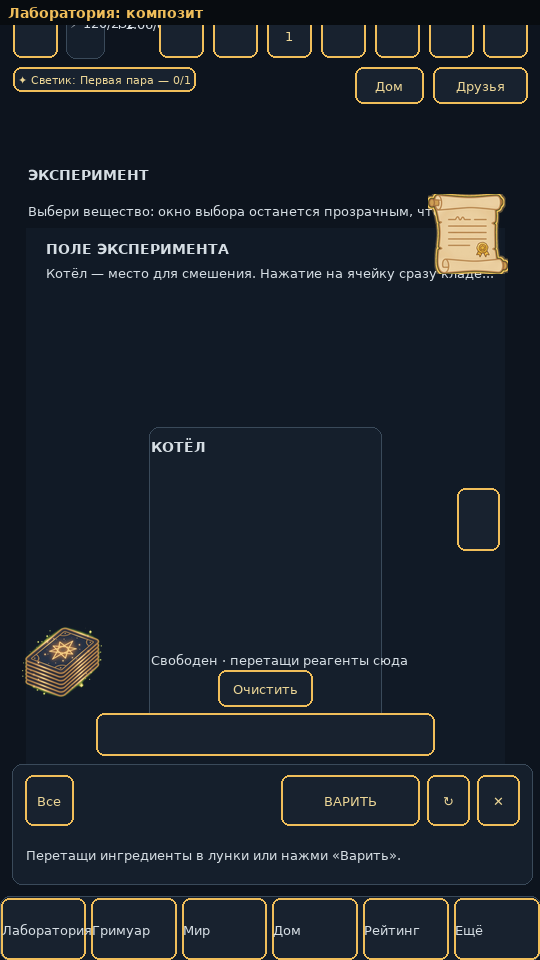
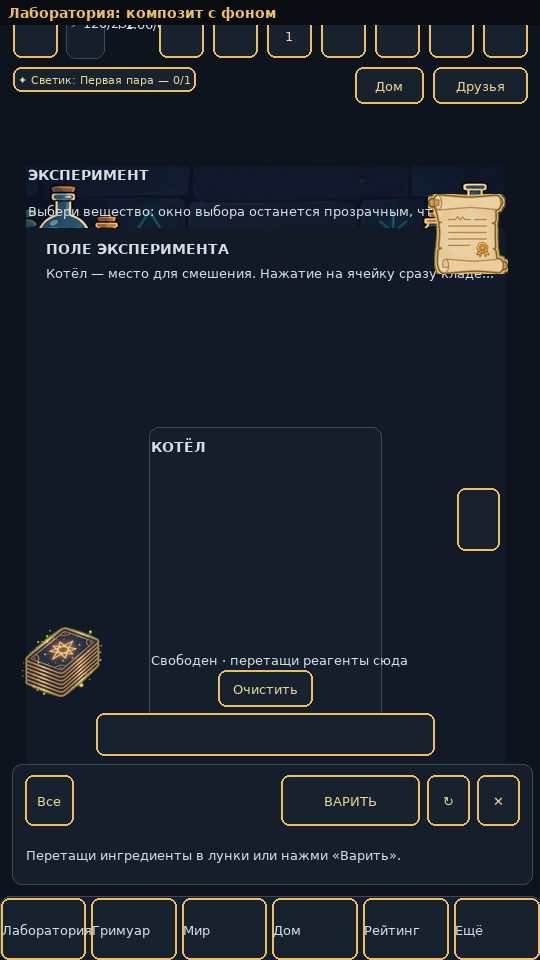
R17g: генерированные фоны комнат (лаборатория/мастерская) под сцену, полупрозрачная арена, композит с фонами — selftest 1038/1038

diff --git a/tools/geom_composite.py b/tools/geom_composite.py
@@ -92,16 +92,26 @@ def render(nodes, out, title, assets_root):
             cx, cy = (x0 + n["w"] / 2, y0 + n["h"] / 2)
             img.alpha_composite(spr, (int(cx - spr.width / 2), int(cy - spr.height / 2)))
             continue
+        if name.startswith("RoomBackdrop_"):
+            bfile = name.split("_", 1)[1] + ".png"
+            bg_img = Image.open(f"{assets_root}/{SCENE_DIR}/{bfile}").convert("RGBA")
+            bg_img = bg_img.resize((int(n["w"]), int(n["h"])), Image.LANCZOS)
+            img.paste(bg_img, (int(x0), int(y0)))
+            continue
         if cls == "TextureRect":
             continue  # Glow/Sprite внутри пропов — уже в арте
         if cls == "ColorRect":
             if "Dim" in name:
                 draw.rectangle([x0, y0, x1, y1], fill=DIM)
             elif name == "FieldDecor":
-                draw.rectangle([x0, y0, x1, y1], fill=(17, 26, 38, 255))
+                # на устройстве это полупрозрачный шейдерный слой — рисуем таким же
+                draw.rectangle([x0, y0, x1, y1], fill=(17, 26, 38, 110))
             continue
         if cls in ("PanelContainer", "Panel"):
-            draw.rounded_rectangle([x0, y0, x1, y1], 10, fill=PANEL_FILL,
+            fill = PANEL_FILL
+            if n["h"] > 500 and n["w"] > 400:
+                fill = (21, 31, 44, 140)  # арена эксперимента полупрозрачна
+            draw.rounded_rectangle([x0, y0, x1, y1], 10, fill=fill,
                                    outline=PANEL_LINE)
             continue
         if cls == "Button":

diff --git a/docs/uiux-rework-analysis-2026-10-11.md b/docs/uiux-rework-analysis-2026-10-11.md
@@ -494,3 +494,15 @@ Control (pos/size/vis/eff-z/text) в оконном размере 540×960 (в 
 - `scene_props.gd`: `.png` приоритетен, `.svg` — фолбэк (deck пока SVG).
 - Превью сверки: композит на фоновом цвете сцены (13,20,30) — края чистые,
   палитра TEAL/GOLD/NAVY совпадает с референсом.
+### R17g (2026-10-12): фоны комнат в стиле референса — selftest 1038/1038
+
+- Сгенерированы (пара кандидатов на комнату, выбор пользователя) и встроены
+  фоны: `assets/ui/scene/bg_lab.png` (камень, полки с колбами, свечи, руны)
+  и `bg_workshop.png` (дерево, шестерни, инструменты, фонари); центр спокойный
+  под геймплейные объекты («интерьер не нагружать»).
+- `rooms.gd`: фоны — TextureRect'ы ПОД комнатами в `Rooms`, видимость синхронна
+  с `set_room` (переключение мгновенное, как у комнат).
+- `ui_style.gd`: альфа арены эксперимента 0.94→0.55 — фон читается сквозь поле,
+  тексты остаются контрастными (поле тёмное, тексты светлые).
+- `tools/geom_composite.py`: рисует фоны по rect'ам RoomBackdrop и полупрозрачную
+  арену; превью — `shots/composite_{master,field}.png`.
